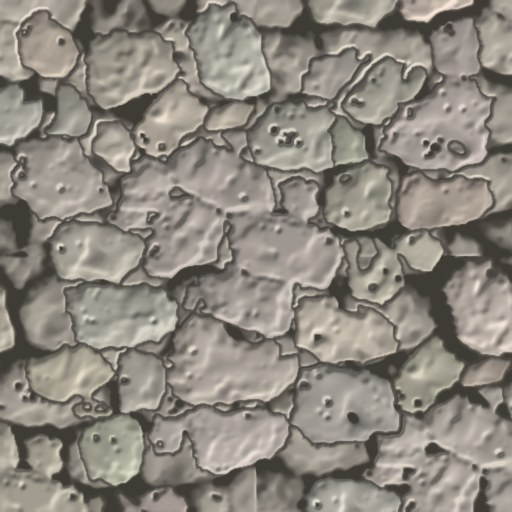
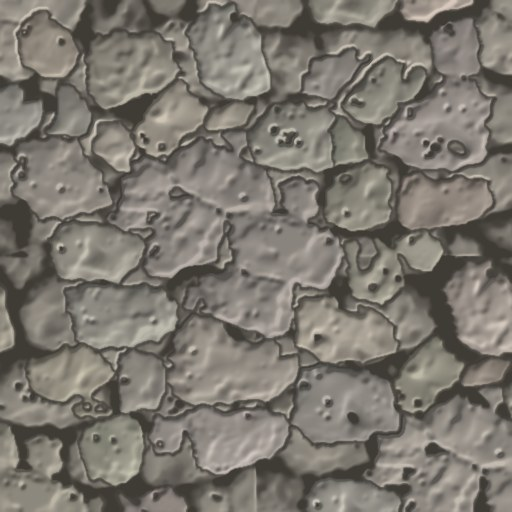
Smaller, fewer flower cushions; slightly darker Meshy paving
Claude-Session: https://claude.ai/code/session_01X1dD2Y6YH3LfRxY1GuGuJA

diff --git a/app/src/main/assets/moonfall-village.js b/app/src/main/assets/moonfall-village.js
@@ -75,10 +75,10 @@ window.installMoonfallVillage=function(P){
       if(h<WL+3){if(r<.32)stones.push({x,y,w:55+hash(i,j,5)*70,a:hash(i,j,6)*6.283});continue}
       if(!dens[k]||dens[k]<160)continue;const nearW=h<WL+28&&wet(i,j,5);
       const p=nearW?.34:WD.noise(x,y)<.44?.035:.012;if(r>p)continue;const t=hash(i,j,7);const it={x,y,a:hash(i,j,8)*6.283,s:.75+hash(i,j,9)*.6};
-      (t<.34?lupine:t<.68?cushion:tall).push(it)}
+      (t<.42?lupine:t<.62?cushion:tall).push(it)}
     inst('river-stones',stones,(q,s)=>{const k=q.w/Math.max(s[0],s[2]);return[s[0]*k,s[1]*k,s[2]*k]});
     inst('lupine-clump',lupine,(q,s)=>{const H=58*q.s,k=H/s[1];return[s[0]*k,H,s[2]*k]});
-    inst('flower-cushion',cushion,(q,s)=>{const W=58*q.s,k=W/Math.max(s[0],s[2]);return[s[0]*k,s[1]*k,s[2]*k]});
+    inst('flower-cushion',cushion,(q,s)=>{const W=42*q.s,k=W/Math.max(s[0],s[2]);return[s[0]*k,s[1]*k,s[2]*k]});
     inst('tall-grass',tall,(q,s)=>{const H=50*q.s,k=H/s[1];return[s[0]*k,H,s[2]*k]});
     this.natureCounts={stones:stones.length,lupine:lupine.length,cushion:cushion.length,tall:tall.length}};
   P.plainRock=function(r){return !r.prop&&!r.edge&&!r.cliff&&r.cave===undefined&&(typeof MOON==='undefined'||!MOON)&&this.mfProp('mossy-boulder')};

diff --git a/src/moonfall-village.js b/src/moonfall-village.js
@@ -75,10 +75,10 @@ window.installMoonfallVillage=function(P){
       if(h<WL+3){if(r<.32)stones.push({x,y,w:55+hash(i,j,5)*70,a:hash(i,j,6)*6.283});continue}
       if(!dens[k]||dens[k]<160)continue;const nearW=h<WL+28&&wet(i,j,5);
       const p=nearW?.34:WD.noise(x,y)<.44?.035:.012;if(r>p)continue;const t=hash(i,j,7);const it={x,y,a:hash(i,j,8)*6.283,s:.75+hash(i,j,9)*.6};
-      (t<.34?lupine:t<.68?cushion:tall).push(it)}
+      (t<.42?lupine:t<.62?cushion:tall).push(it)}
     inst('river-stones',stones,(q,s)=>{const k=q.w/Math.max(s[0],s[2]);return[s[0]*k,s[1]*k,s[2]*k]});
     inst('lupine-clump',lupine,(q,s)=>{const H=58*q.s,k=H/s[1];return[s[0]*k,H,s[2]*k]});
-    inst('flower-cushion',cushion,(q,s)=>{const W=58*q.s,k=W/Math.max(s[0],s[2]);return[s[0]*k,s[1]*k,s[2]*k]});
+    inst('flower-cushion',cushion,(q,s)=>{const W=42*q.s,k=W/Math.max(s[0],s[2]);return[s[0]*k,s[1]*k,s[2]*k]});
     inst('tall-grass',tall,(q,s)=>{const H=50*q.s,k=H/s[1];return[s[0]*k,H,s[2]*k]});
     this.natureCounts={stones:stones.length,lupine:lupine.length,cushion:cushion.length,tall:tall.length}};
   P.plainRock=function(r){return !r.prop&&!r.edge&&!r.cliff&&r.cave===undefined&&(typeof MOON==='undefined'||!MOON)&&this.mfProp('mossy-boulder')};
